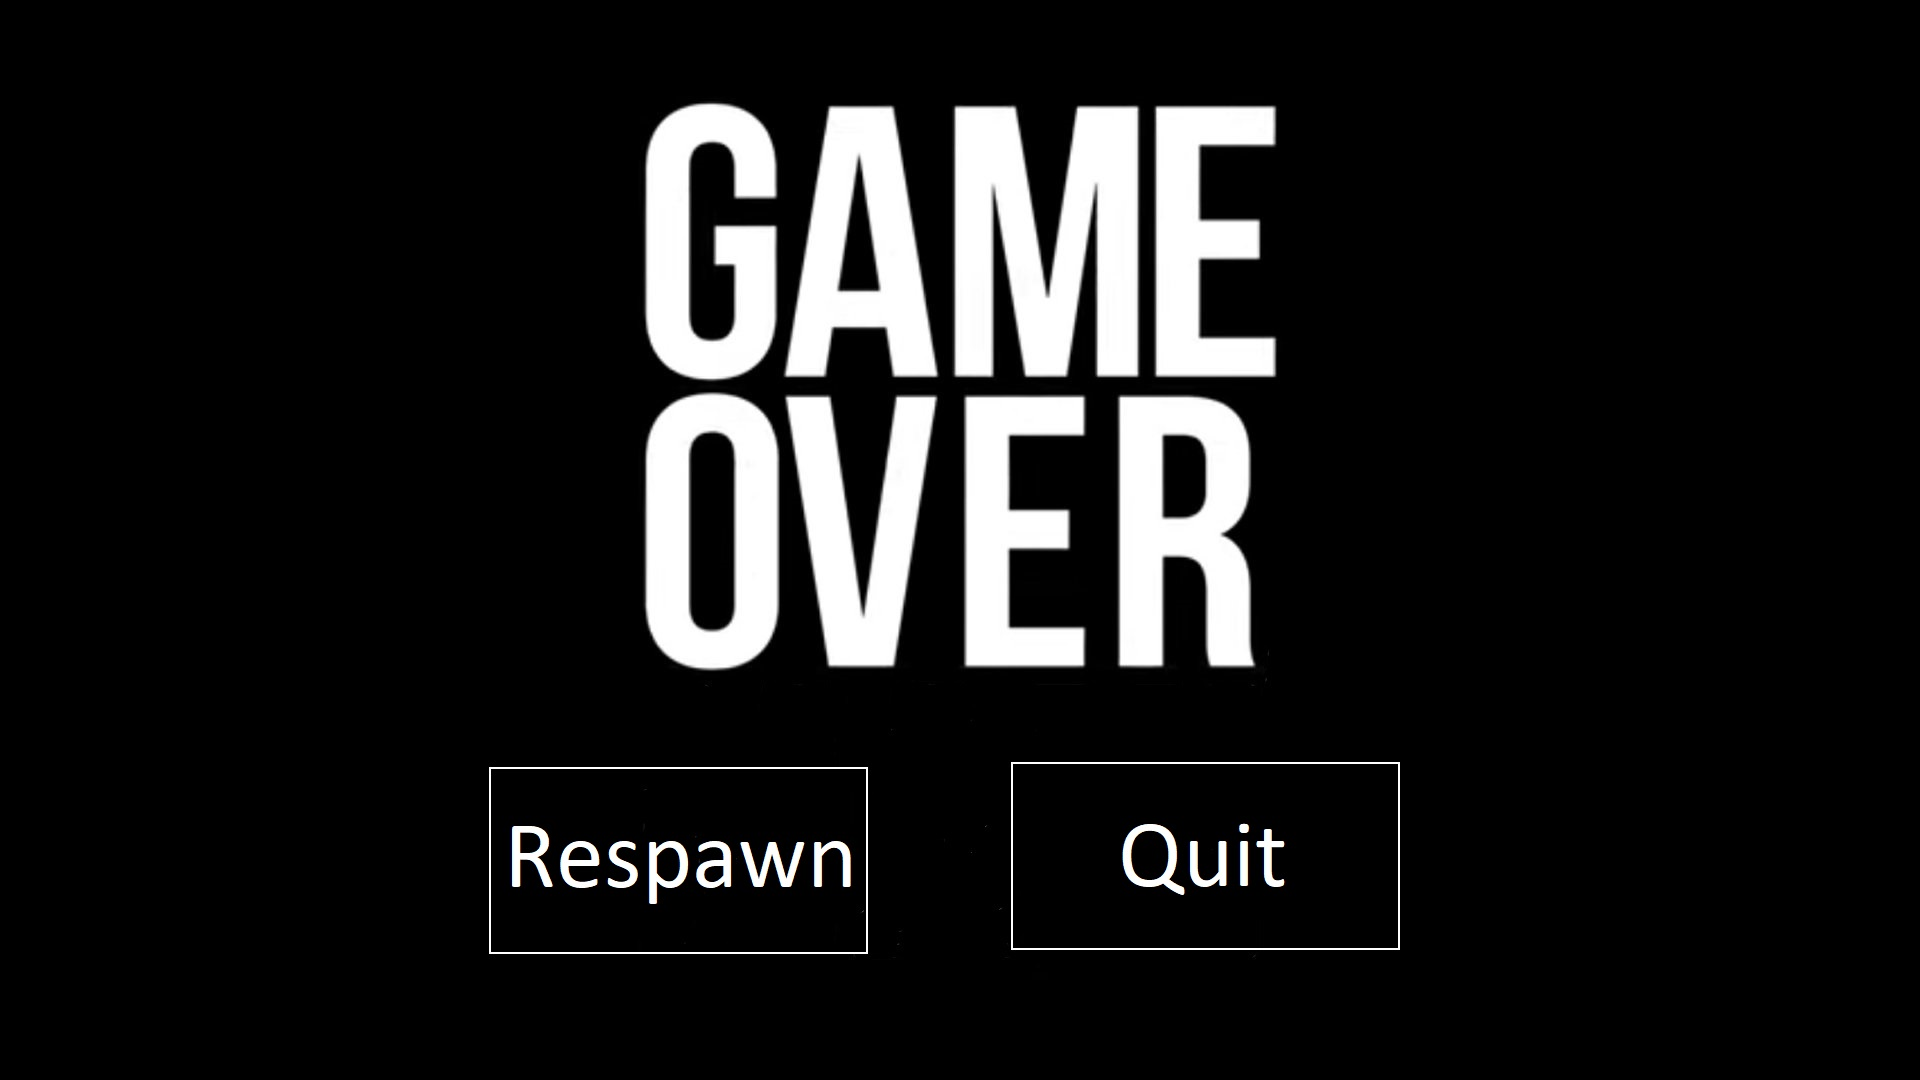
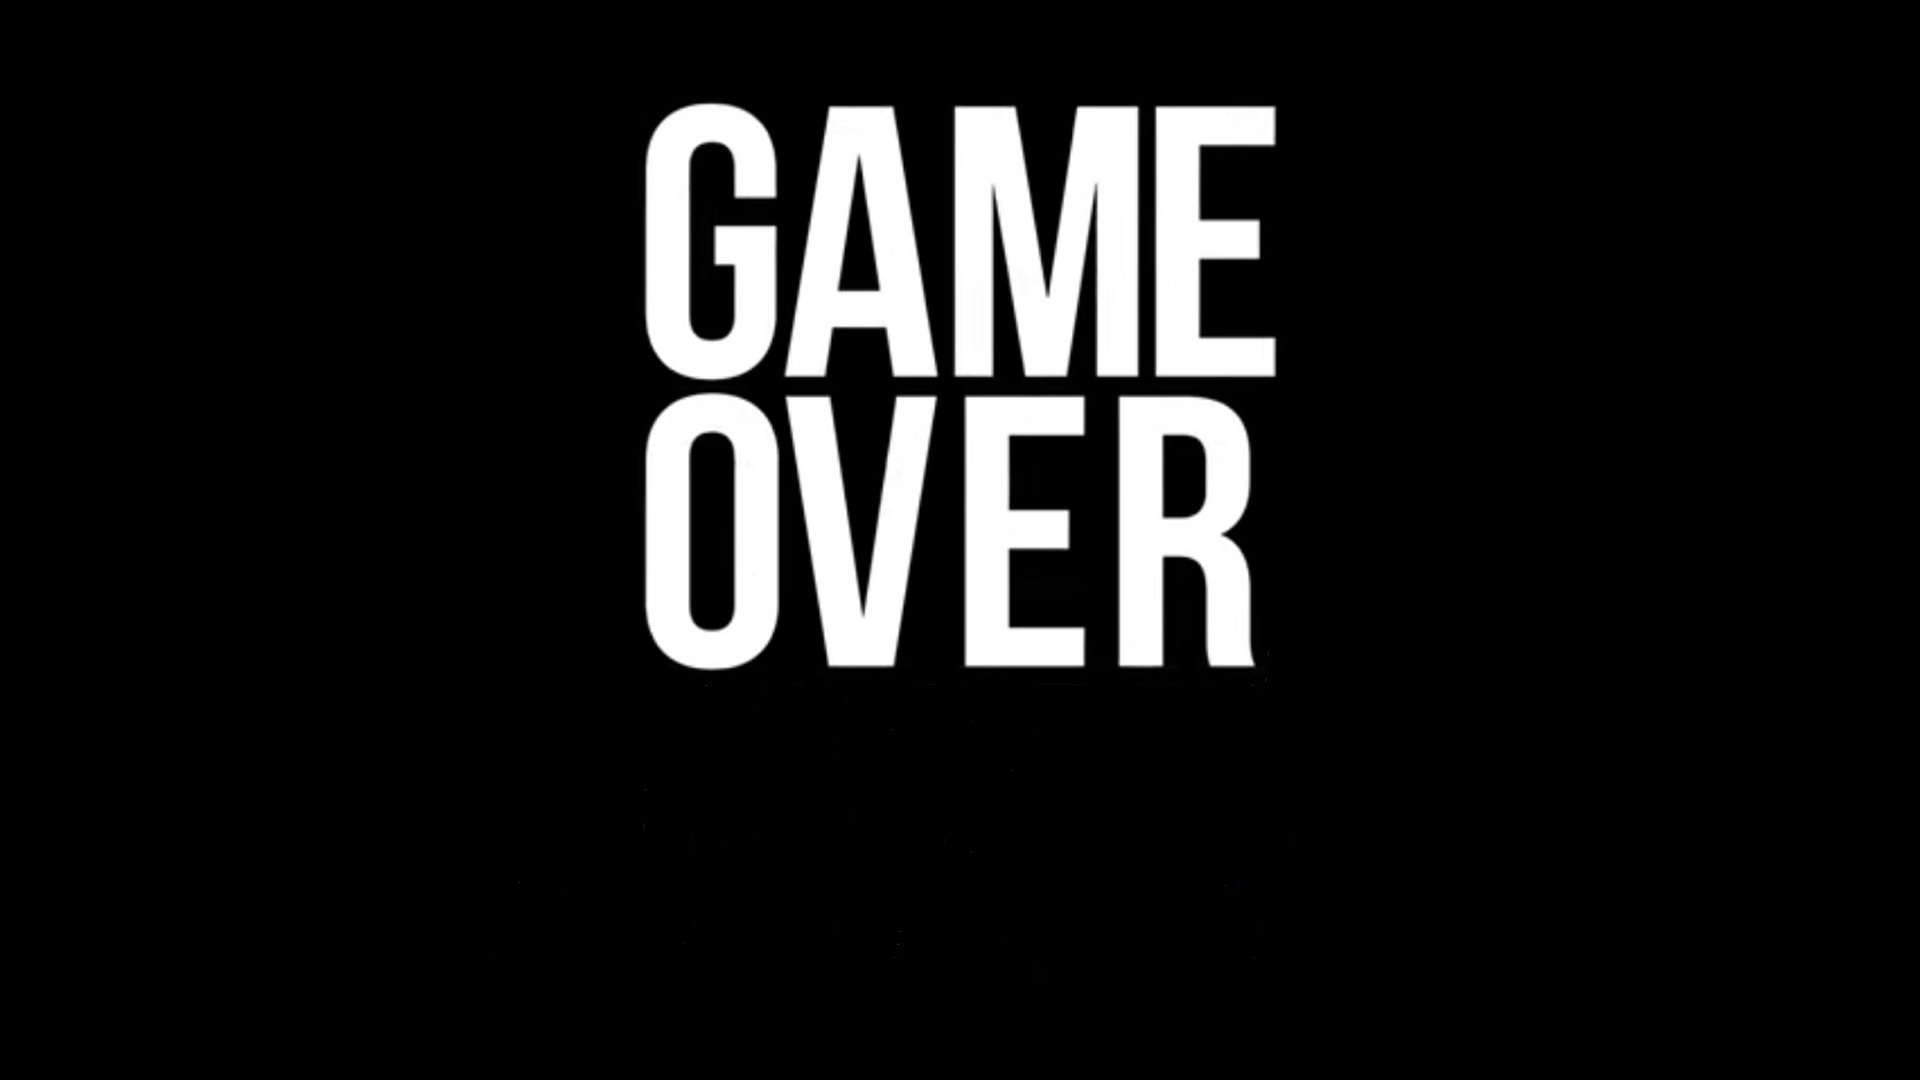
DeathScreen done

Changed region(s): [[0.25, 0.7639, 0.4688, 0.825], [0.5625, 0.7639, 0.6875, 0.825]]

diff --git a/SuperFantasyMagicProject/SuperFantasyMagicProject/GameOver/GameOverButton.cs b/SuperFantasyMagicProject/SuperFantasyMagicProject/GameOver/GameOverButton.cs
@@ -6,79 +6,123 @@ using System.Collections.Generic;
 using System.Linq;
 using System.Text;
 using System.Threading.Tasks;
-using SuperFantasyMagicProject.Creatures;
-using SuperFantasyMagicProject.GameOver;
 
 namespace SuperFantasyMagicProject
 {
-    class GameOverButton : Componet
+    class GameOverButton
     {
         private MouseState previousMS = Mouse.GetState();
         private MouseState currentMS;
-        private bool isHovering;
-        public SpriteFont font1;
 
-        private Texture2D texture1;
+        private string text;
+        private SpriteFont font;
+        private string fontPath = "Menus/Button/Font";
+        private Vector2 textDimension;
+        private Color textColor = Color.White;
 
-        public Color PenColour { get; set; }
+        private Texture2D texture, inactiveTexture, activeTexture, downTexture;
+        private string inactivePath = "GameOverScreen/Respawn1";
+        private string activePath = "GameOverScreen/Respawn2";
+        private string downPath = "GameOverScreen/Respawn3";
+        private Rectangle collisionBox;
+        private Vector2 origin;
+        private bool isDown;
+
         public Vector2 Position { get; set; }
-        public string Text { get; set; }
-        public EventHandler Click;
+        public bool Activated { get; set; }
 
-        public Rectangle rectangle
+        public GameOverButton(string text)
         {
-            get
-            {
-                return new Rectangle((int)Position.X, (int)Position.Y, texture1.Width, texture1.Height);
-            }
-        }
-
-        public GameOverButton(Texture2D texture, SpriteFont font)
-        {
-            texture1 = texture;
-            font1 = font;
-            PenColour = Color.White;
+            Position = Vector2.Zero;
+            this.text = text;
+            isDown = false;
+            Activated = false;
         }
 
         public void LoadContent()
         {
+            activeTexture = ScreenManager.ContentManager.Load<Texture2D>(activePath);
+            inactiveTexture = ScreenManager.ContentManager.Load<Texture2D>(inactivePath);
+            downTexture = ScreenManager.ContentManager.Load<Texture2D>(downPath);
+            font = ScreenManager.ContentManager.Load<SpriteFont>(fontPath);
+            textDimension = font.MeasureString(text);
+            texture = inactiveTexture;
+            origin = new Vector2(texture.Width / 2, texture.Height / 2);
+            collisionBox = new Rectangle((int)(Position.X - origin.X), (int)(Position.Y - origin.Y), texture.Width, texture.Height);
         }
 
-        public override void Draw(GameTime gameTime, SpriteBatch spriteBatch)
+        public void UnloadContent()
         {
-            var colour = Color.White;
-
-            if (isHovering)
-            {
-                colour = Color.Gray;
-            }
-
-            spriteBatch.Draw(texture1, rectangle, colour);
-
-            if (!string.IsNullOrEmpty(Text))
-            {
-                var x = (rectangle.X + (rectangle.Width / 2)) - (font1.MeasureString(Text).X / 2);
-                var y = (rectangle.Y + (rectangle.Height / 2)) - (font1.MeasureString(Text).Y / 2);
-
-                spriteBatch.DrawString(font1, Text, new Vector2(x, y), PenColour);
-            }
+            MenuManager.UnloadContent();
         }
 
-        public override void Update(GameTime gameTime)
+        public void Update()
+        {
+            HandleInput();
+        }
+
+        public void Draw(SpriteBatch spriteBatch)
+        {
+            spriteBatch.Draw(texture, Position, null, Color.White, 0, origin, 1, SpriteEffects.None, 1f);
+            spriteBatch.DrawString(font, text, Position -(textDimension / 2), textColor);
+        }
+
+        public void HandleInput()
         {
             currentMS = Mouse.GetState();
-            var mouseRectangle = new Rectangle(currentMS.X, currentMS.Y, 1, 1);
+            Rectangle mouseRectangle = new Rectangle(currentMS.X, currentMS.Y, 1, 1);
 
-            isHovering = false;
-
-            if (mouseRectangle.Intersects(rectangle))
+            if(mouseRectangle.Intersects(collisionBox))
             {
-                isHovering = true;
-                if (currentMS.LeftButton == ButtonState.Released && previousMS.LeftButton == ButtonState.Pressed)
+                if(currentMS.LeftButton==ButtonState.Pressed && previousMS.LeftButton==ButtonState.Released && isDown)
                 {
-                    Click?.Invoke(this, new EventArgs());
+                    isDown = true;
+                }
+
+                else if(currentMS.LeftButton == ButtonState.Released && previousMS.LeftButton == ButtonState.Pressed && isDown)
+                {
+                    isDown = false;
+                    Activated = true;
+                }
+
+                if(!isDown && texture != activeTexture)
+                {
+                    texture = activeTexture;
+                }
+
+                else if(isDown && texture != downTexture)
+                {
+                    texture = inactiveTexture;
                 }
             }
+
+            else
+            {
+                texture = inactiveTexture;
+
+                if(currentMS.LeftButton==ButtonState.Released && previousMS.LeftButton ==ButtonState.Pressed && isDown)
+                {
+                    isDown = false;
+                }
+            }
+
+            previousMS = currentMS;
         }
+
+
+        public void DrawCollosion(SpriteBatch spriteBatch)
+        {
+            Rectangle top = new Rectangle((int)Position.X - (int)origin.X, (int)Position.Y - (int)origin.Y, collisionBox.Width, 1);
+            Rectangle bottom = new Rectangle((int)Position.X - (int)origin.X, (int)Position.Y - (int)origin.Y + collisionBox.Height, collisionBox.Width, 1);
+            Rectangle right = new Rectangle((int)Position.X - (int)origin.X + collisionBox.Width, (int)Position.Y - (int)origin.Y, 1, collisionBox.Height);
+            Rectangle left = new Rectangle((int)Position.X - (int)origin.X, (int)Position.Y -(int)origin.Y, 1, collisionBox.Height);
+
+        }
+
+        public void DrawMousePosision(SpriteBatch spriteBatch)
+        {
+            Rectangle top = new Rectangle((int)currentMS.X, (int)currentMS.Y, 1, 1);
+        }
+
     }
 }

diff --git a/SuperFantasyMagicProject/SuperFantasyMagicProject/Screen/GameOverScreen.cs b/SuperFantasyMagicProject/SuperFantasyMagicProject/Screen/GameOverScreen.cs
@@ -15,35 +15,88 @@ namespace SuperFantasyMagicProject.Screen
         private Texture2D background;
         private string backgroundPath = "GameOverScreen/gameover1";
 
+        private Vector2 buttonPosition;
+
+        private List<GameOverButton> buttons;
+        private GameOverButton respawnButton, quitButton;
+        private Vector2 mostLeftButton;
+
         public GameOverScreen()
         {
-            
+            buttonPosition = new Vector2(ScreenManager.ScreenDimensions.X / 3, ScreenManager.ScreenDimensions.Y / 2);
+            mostLeftButton = new Vector2(buttonPosition.X + 12, buttonPosition.Y + 315);
+            buttons = new List<GameOverButton>();
+            respawnButton = new GameOverButton("Respawn");
+            quitButton = new GameOverButton("Quit");
+            buttons.Add(respawnButton);
+            buttons.Add(quitButton);
+            AlignButton();
         }
 
         public override void LoadContent()
         {
             base.LoadContent();
             background = gameScreenContent.Load<Texture2D>(backgroundPath);
+
+            foreach (GameOverButton button in buttons)
+            {
+                button.LoadContent();
+            }
         }
 
         public override void UnloadContent()
         {
             base.UnloadContent();
+
+            foreach (GameOverButton button in buttons)
+            {
+                button.UnloadContent();
+            }
+            MenuManager.UnloadContent();
         }
 
         public override void Update(GameTime gameTime)
         {
             base.Update(gameTime);
             HandleInput();
+
+            foreach (GameOverButton button in buttons)
+            {
+                button.Update();
+            }
+
+            if (respawnButton.Activated)
+            {
+                //Respawn player
+            }
+
+            if (quitButton.Activated)
+            {
+                //Exit game
+            }
+
         }
 
         public override void Draw(SpriteBatch spriteBatch)
         {
             spriteBatch.Draw(background, Vector2.Zero, Color.White);
+
+            foreach (GameOverButton button in buttons)
+            {
+                button.Draw(spriteBatch);
+            }
         }
         public override void HandleInput()
         {
             
+        }
+
+        private void AlignButton()
+        {
+            for (int i = 0; i < buttons.Count; i++)
+            {
+                buttons[i].Position = new Vector2(mostLeftButton.X + (600 * i), mostLeftButton.Y);
+            }
         }
     }
 }

diff --git a/SuperFantasyMagicProject/SuperFantasyMagicProject/GameWorld.cs b/SuperFantasyMagicProject/SuperFantasyMagicProject/GameWorld.cs
@@ -106,10 +106,10 @@ namespace SuperFantasyMagicProject
             {
                 IsMouseVisible = true;
             }
-            else if (!MenuManager.IsMenuOpen && IsMouseVisible)
-            {
-                IsMouseVisible = false;
-            }
+            //else if (!MenuManager.IsMenuOpen && IsMouseVisible)
+            //{
+            //    IsMouseVisible = false;
+            //}
 
             base.Update(gameTime);
         }
